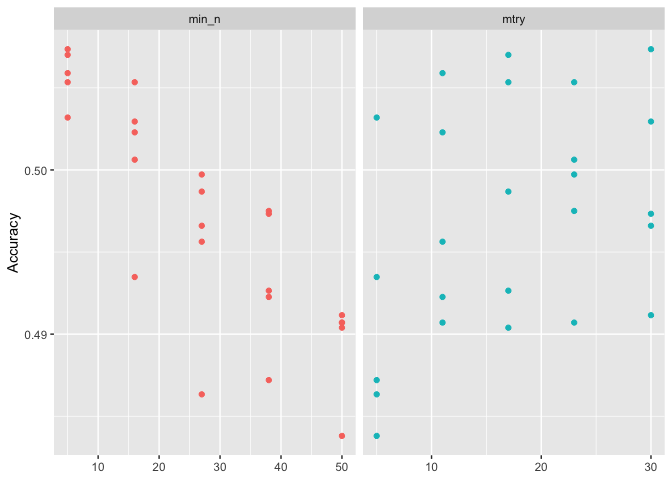
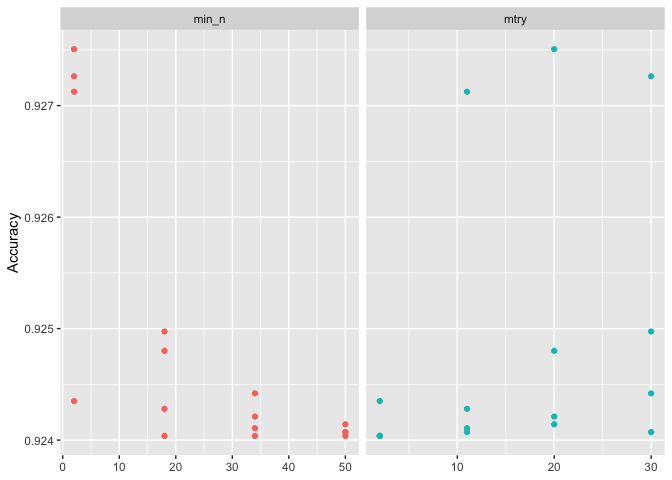
update to diabetes for RF.

diff --git a/Data Analysis/random_forest.md b/Data Analysis/random_forest.md
@@ -274,29 +274,29 @@ set.seed(10)
 
 #### Cross Validation Split
 cv_split <- initial_validation_split(data, 
-                            strata = gen_health, 
+                            strata = diabetes, 
                             prop = c(0.70, 0.20))
 
 # Create data frames for the two sets:
 train_data <- training(cv_split)
-table(train_data$gen_health)
+table(train_data$diabetes)
 ```
 
 ```
 ## 
-##     1     2     3     4 
-##  2946  8948 12028  4908
+##    No   Yes 
+## 26640  2190
 ```
 
 ``` r
 test_data  <- testing(cv_split)
-table(test_data$gen_health)
+table(test_data$diabetes)
 ```
 
 ```
 ## 
-##    1    2    3    4 
-##  418 1257 1747  697
+##   No  Yes 
+## 3813  306
 ```
 
 ### Model 
@@ -350,7 +350,7 @@ Now we can add roles to this recipe. We can use the `update_role()` function to 
 
 ``` r
 health_recipe <- 
-  recipe(gen_health ~ ., data = train_data) %>% 
+  recipe(diabetes ~ ., data = train_data) %>% 
   step_zv(all_predictors()) ### Remove columns from the data when the training set data have a single value. Zero variance predictor
 ```
 
@@ -401,29 +401,34 @@ set.seed(100)
 folds <- vfold_cv(train_data, v = 10) 
 
 rf_grid <- grid_regular(
-              mtry(range = c(5, 30)),
-              min_n(range = c(5, 50)),
-              levels = 5  
+              mtry(range = c(2, 30)),
+              min_n(range = c(2, 50)),
+              levels = 4  
             )
 
 rf_grid
 ```
 
 ```
-## # A tibble: 25 × 2
+## # A tibble: 16 × 2
 ##     mtry min_n
 ##    <int> <int>
-##  1     5     5
-##  2    11     5
-##  3    17     5
-##  4    23     5
-##  5    30     5
-##  6     5    16
-##  7    11    16
-##  8    17    16
-##  9    23    16
-## 10    30    16
-## # ℹ 15 more rows
+##  1     2     2
+##  2    11     2
+##  3    20     2
+##  4    30     2
+##  5     2    18
+##  6    11    18
+##  7    20    18
+##  8    30    18
+##  9     2    34
+## 10    11    34
+## 11    20    34
+## 12    30    34
+## 13     2    50
+## 14    11    50
+## 15    20    50
+## 16    30    50
 ```
 
 ``` r
@@ -443,16 +448,16 @@ health_fit
 ## # A tibble: 10 × 5
 ##    splits               id     .metrics          .notes           .predictions
 ##    <list>               <chr>  <list>            <list>           <list>      
-##  1 <split [25947/2883]> Fold01 <tibble [75 × 6]> <tibble [0 × 4]> <tibble>    
-##  2 <split [25947/2883]> Fold02 <tibble [75 × 6]> <tibble [0 × 4]> <tibble>    
-##  3 <split [25947/2883]> Fold03 <tibble [75 × 6]> <tibble [0 × 4]> <tibble>    
-##  4 <split [25947/2883]> Fold04 <tibble [75 × 6]> <tibble [0 × 4]> <tibble>    
-##  5 <split [25947/2883]> Fold05 <tibble [75 × 6]> <tibble [0 × 4]> <tibble>    
-##  6 <split [25947/2883]> Fold06 <tibble [75 × 6]> <tibble [0 × 4]> <tibble>    
-##  7 <split [25947/2883]> Fold07 <tibble [75 × 6]> <tibble [0 × 4]> <tibble>    
-##  8 <split [25947/2883]> Fold08 <tibble [75 × 6]> <tibble [0 × 4]> <tibble>    
-##  9 <split [25947/2883]> Fold09 <tibble [75 × 6]> <tibble [0 × 4]> <tibble>    
-## 10 <split [25947/2883]> Fold10 <tibble [75 × 6]> <tibble [0 × 4]> <tibble>
+##  1 <split [25947/2883]> Fold01 <tibble [48 × 6]> <tibble [0 × 4]> <tibble>    
+##  2 <split [25947/2883]> Fold02 <tibble [48 × 6]> <tibble [0 × 4]> <tibble>    
+##  3 <split [25947/2883]> Fold03 <tibble [48 × 6]> <tibble [0 × 4]> <tibble>    
+##  4 <split [25947/2883]> Fold04 <tibble [48 × 6]> <tibble [0 × 4]> <tibble>    
+##  5 <split [25947/2883]> Fold05 <tibble [48 × 6]> <tibble [0 × 4]> <tibble>    
+##  6 <split [25947/2883]> Fold06 <tibble [48 × 6]> <tibble [0 × 4]> <tibble>    
+##  7 <split [25947/2883]> Fold07 <tibble [48 × 6]> <tibble [0 × 4]> <tibble>    
+##  8 <split [25947/2883]> Fold08 <tibble [48 × 6]> <tibble [0 × 4]> <tibble>    
+##  9 <split [25947/2883]> Fold09 <tibble [48 × 6]> <tibble [0 × 4]> <tibble>    
+## 10 <split [25947/2883]> Fold10 <tibble [48 × 6]> <tibble [0 × 4]> <tibble>
 ```
 
 #### Plot of the results. 
@@ -516,7 +521,7 @@ rf_best
 ## # A tibble: 1 × 3
 ##    mtry min_n .config         
 ##   <int> <int> <chr>           
-## 1    30     5 pre0_mod21_post0
+## 1    20     2 pre0_mod09_post0
 ```
 
 ``` r
@@ -537,17 +542,15 @@ Here is the confusion matrix for all 5 of the folds.
 
 
 ``` r
-conf_mat(rf_auc_fit, truth = gen_health,
+conf_mat(rf_auc_fit, truth = diabetes,
          estimate = .pred_class)
 ```
 
 ```
 ##           Truth
-## Prediction    1    2    3    4
-##          1  750  268  133   47
-##          2 1274 4059 2360  708
-##          3  902 4518 9235 3570
-##          4   20  103  300  583
+## Prediction    No   Yes
+##        No  26618  2068
+##        Yes    22   122
 ```
 
 #### Accuracy
@@ -556,7 +559,7 @@ We can calculate the classification accuracy by using the `accuracy()` function 
 
 
 ``` r
-accuracy(rf_auc_fit, truth = gen_health,
+accuracy(rf_auc_fit, truth = diabetes,
          estimate = .pred_class)
 ```
 
@@ -564,14 +567,14 @@ accuracy(rf_auc_fit, truth = gen_health,
 ## # A tibble: 1 × 3
 ##   .metric  .estimator .estimate
 ##   <chr>    <chr>          <dbl>
-## 1 accuracy multiclass     0.507
+## 1 accuracy binary         0.928
 ```
 
 #### Sensitivity
 
 
 ``` r
-sens(rf_auc_fit, truth = gen_health,
+sens(rf_auc_fit, truth = diabetes,
          estimate = .pred_class)
 ```
 
@@ -579,14 +582,14 @@ sens(rf_auc_fit, truth = gen_health,
 ## # A tibble: 1 × 3
 ##   .metric .estimator .estimate
 ##   <chr>   <chr>          <dbl>
-## 1 sens    macro          0.399
+## 1 sens    binary         0.999
 ```
 
 #### Specificity
 
 
 ``` r
-spec(rf_auc_fit, truth = gen_health,
+spec(rf_auc_fit, truth = diabetes,
          estimate = .pred_class)
 ```
 
@@ -594,14 +597,14 @@ spec(rf_auc_fit, truth = gen_health,
 ## # A tibble: 1 × 3
 ##   .metric .estimator .estimate
 ##   <chr>   <chr>          <dbl>
-## 1 spec    macro          0.803
+## 1 spec    binary        0.0557
 ```
 
 #### F1 Score
 
 
 ``` r
-f_meas(rf_auc_fit, truth = gen_health,
+f_meas(rf_auc_fit, truth = diabetes,
          estimate = .pred_class)
 ```
 
@@ -609,7 +612,7 @@ f_meas(rf_auc_fit, truth = gen_health,
 ## # A tibble: 1 × 3
 ##   .metric .estimator .estimate
 ##   <chr>   <chr>          <dbl>
-## 1 f_meas  macro          0.409
+## 1 f_meas  binary         0.962
 ```
 
 ## Final model
@@ -630,9 +633,9 @@ final_model
 ## Random Forest Model Specification (classification)
 ## 
 ## Main Arguments:
-##   mtry = 30
+##   mtry = 20
 ##   trees = 100
-##   min_n = 5
+##   min_n = 2
 ## 
 ## Engine-Specific Arguments:
 ##   num.threads = cores
@@ -648,7 +651,7 @@ tree_prep <- prep(health_recipe)
 
 final_model %>%
   set_engine("ranger", importance = "permutation") %>%
-  fit(gen_health ~ .,
+  fit(diabetes ~ .,
     data = juice(tree_prep)) %>%
   vip(geom = "point")
 ```
@@ -674,9 +677,9 @@ final_results %>%
 ## # A tibble: 3 × 4
 ##   .metric     .estimator .estimate .config        
 ##   <chr>       <chr>          <dbl> <chr>          
-## 1 accuracy    multiclass     0.503 pre0_mod0_post0
-## 2 roc_auc     hand_till      0.738 pre0_mod0_post0
-## 3 brier_class multiclass     0.306 pre0_mod0_post0
+## 1 accuracy    binary        0.930  pre0_mod0_post0
+## 2 roc_auc     binary        0.792  pre0_mod0_post0
+## 3 brier_class binary        0.0595 pre0_mod0_post0
 ```
 
 ## Session Info
